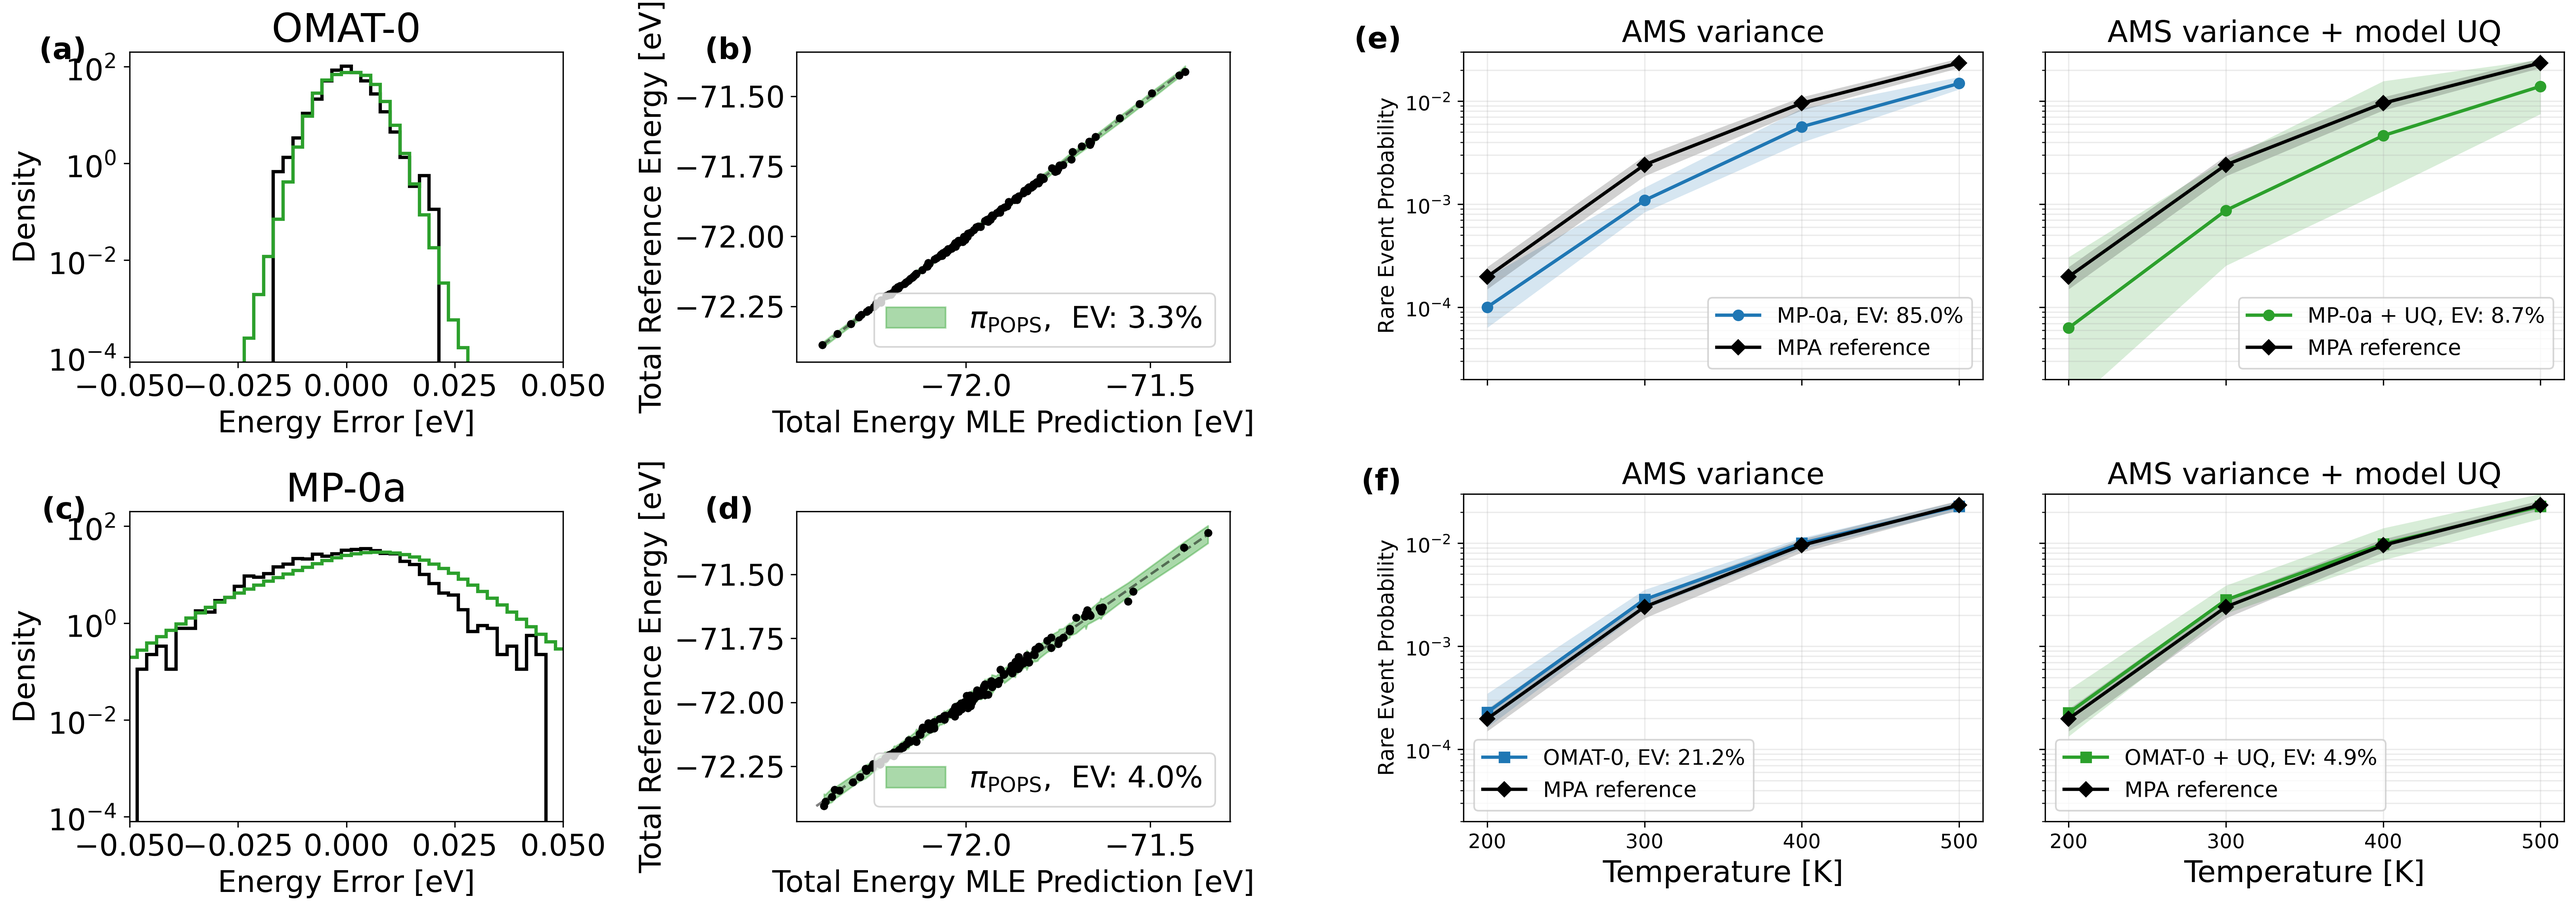
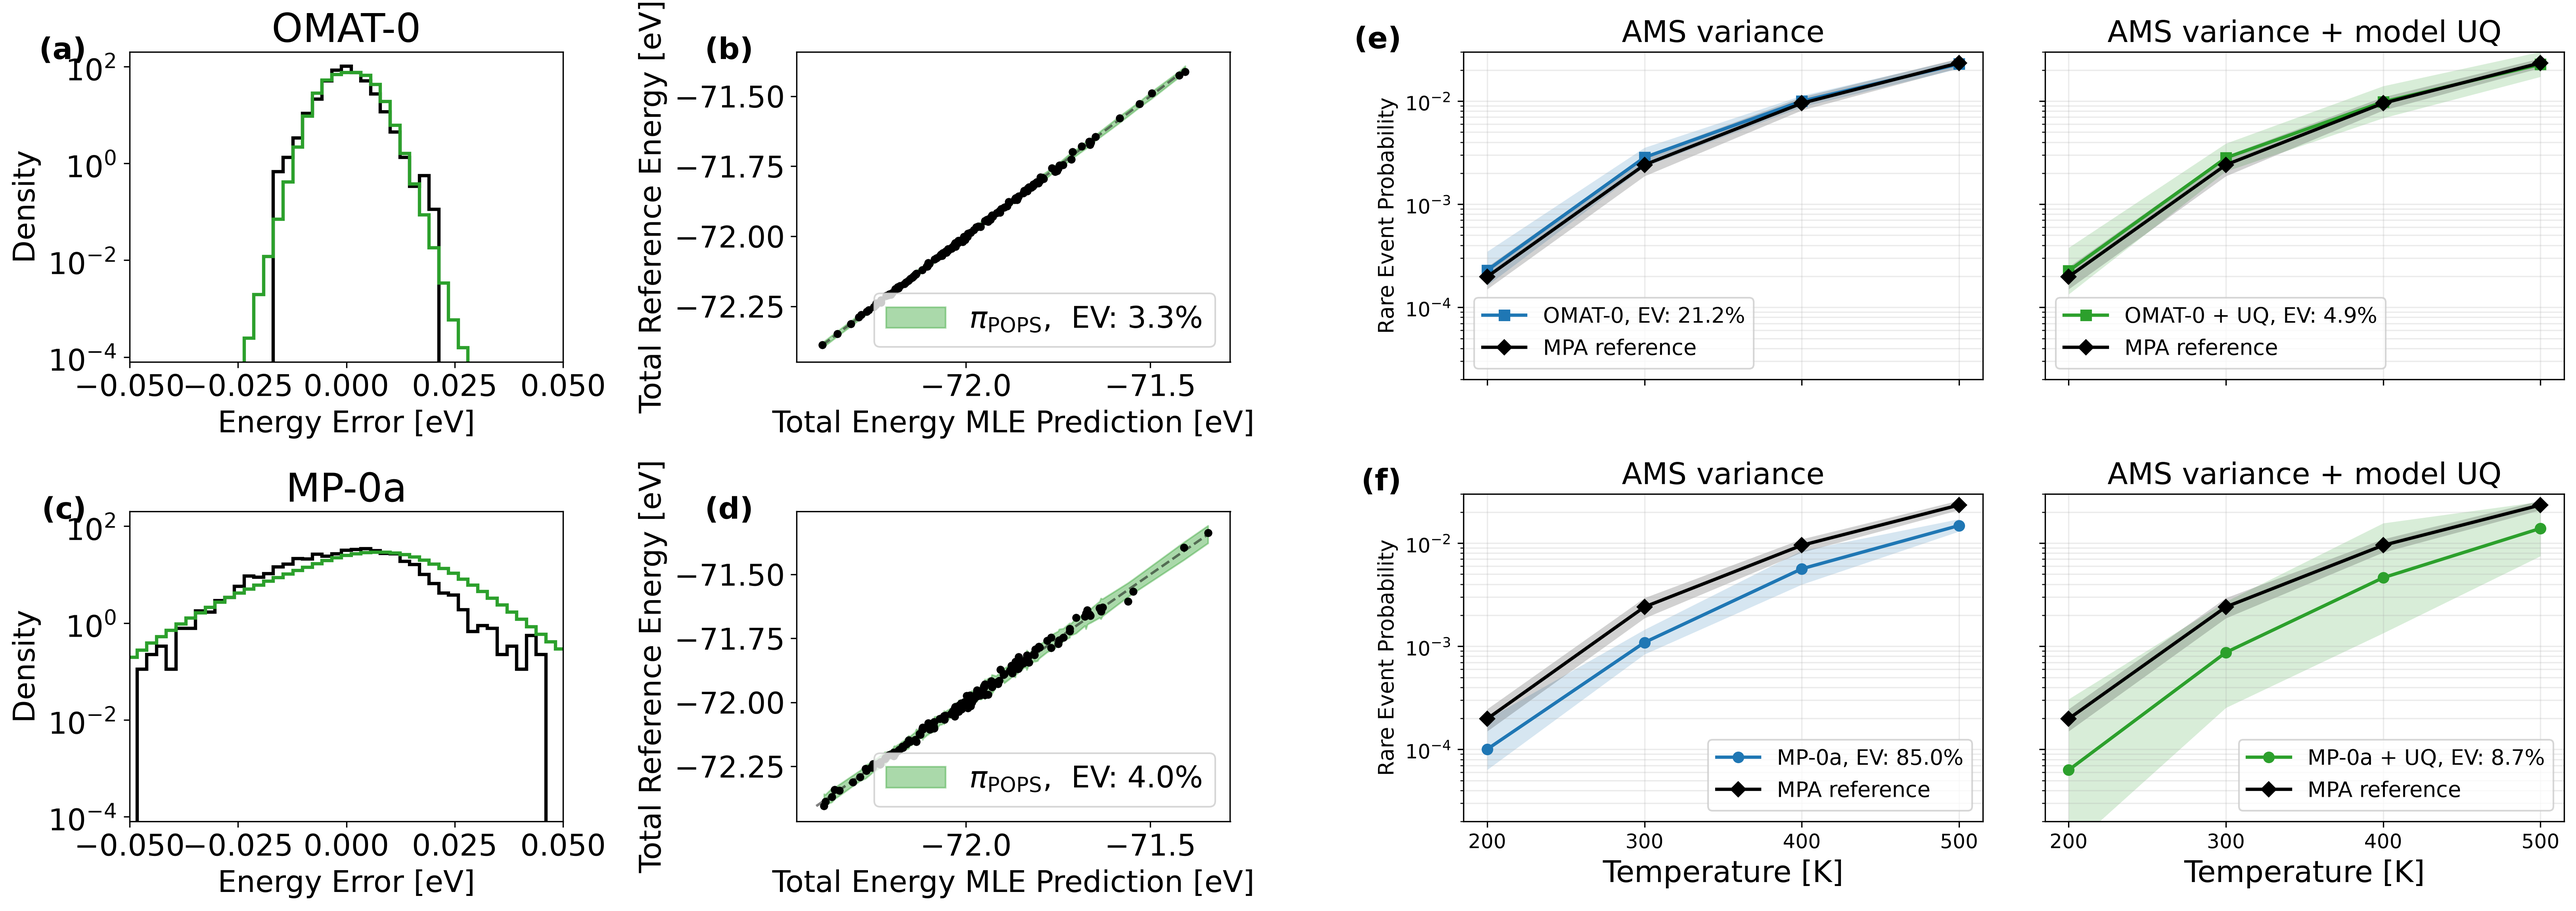
Place OMAT model above MP-0a in combined plot

diff --git a/scripts/AMS_butane/plots/plot_energy_probability.py b/scripts/AMS_butane/plots/plot_energy_probability.py
@@ -436,7 +436,7 @@ with plt.rc_context({
     "ytick.labelsize": 12,
     "legend.fontsize": 13,
 }):
-    plot_temperature_axes(temperature_axes)
+    plot_temperature_axes(temperature_axes, models=("omat0", "mp0a"))
 
 # The x-axis is shared; keep temperature tick labels only on the bottom row so
 # they do not collide with the titles of the lower panels.
@@ -483,8 +483,8 @@ vertical_grid = fig.add_gridspec(
 )
 vertical_axes = [
     axes[1, 1], axes[0, 1],
-    temperature_axes[0, 0], temperature_axes[1, 0],
-    temperature_axes[0, 1], temperature_axes[1, 1],
+    temperature_axes[1, 0], temperature_axes[0, 0],
+    temperature_axes[1, 1], temperature_axes[0, 1],
 ]
 fig.set_size_inches(14, 15.5)
 for panel_index, ax in enumerate(vertical_axes):
@@ -523,8 +523,8 @@ for col, model_name in enumerate(('MP-0a', 'OMAT-0')):
 
 panel_labels = {
     axes[1, 1]: '(a)', axes[0, 1]: '(b)',
-    temperature_axes[0, 0]: '(c)', temperature_axes[1, 0]: '(d)',
-    temperature_axes[0, 1]: '(e)', temperature_axes[1, 1]: '(f)',
+    temperature_axes[1, 0]: '(c)', temperature_axes[0, 0]: '(d)',
+    temperature_axes[1, 1]: '(e)', temperature_axes[0, 1]: '(f)',
 }
 for ax, label in panel_labels.items():
     ax.text(

diff --git a/scripts/AMS_butane/plots/plot_temperature.py b/scripts/AMS_butane/plots/plot_temperature.py
@@ -248,7 +248,7 @@ def plot_summary(ax, temperatures, summaries, label, color, marker):
     ax.fill_between(temperatures, lower, upper, color=color, alpha=0.18, linewidth=0)
 
 
-def plot_temperature_axes(axes):
+def plot_temperature_axes(axes, models=MODELS):
     """Draw the two-model temperature comparison into a supplied 2x2 axes array."""
     rng = np.random.default_rng(RANDOM_SEED)
     reference_summaries = []
@@ -330,7 +330,7 @@ def plot_temperature_axes(axes):
         ),
     )
 
-    for row, model in enumerate(MODELS):
+    for row, model in enumerate(models):
         for col, (model_summaries, model_coverage, uq_title) in enumerate(uq_columns):
             ax = axes[row, col]
             global_coverage = float(np.mean(model_coverage[model]))
